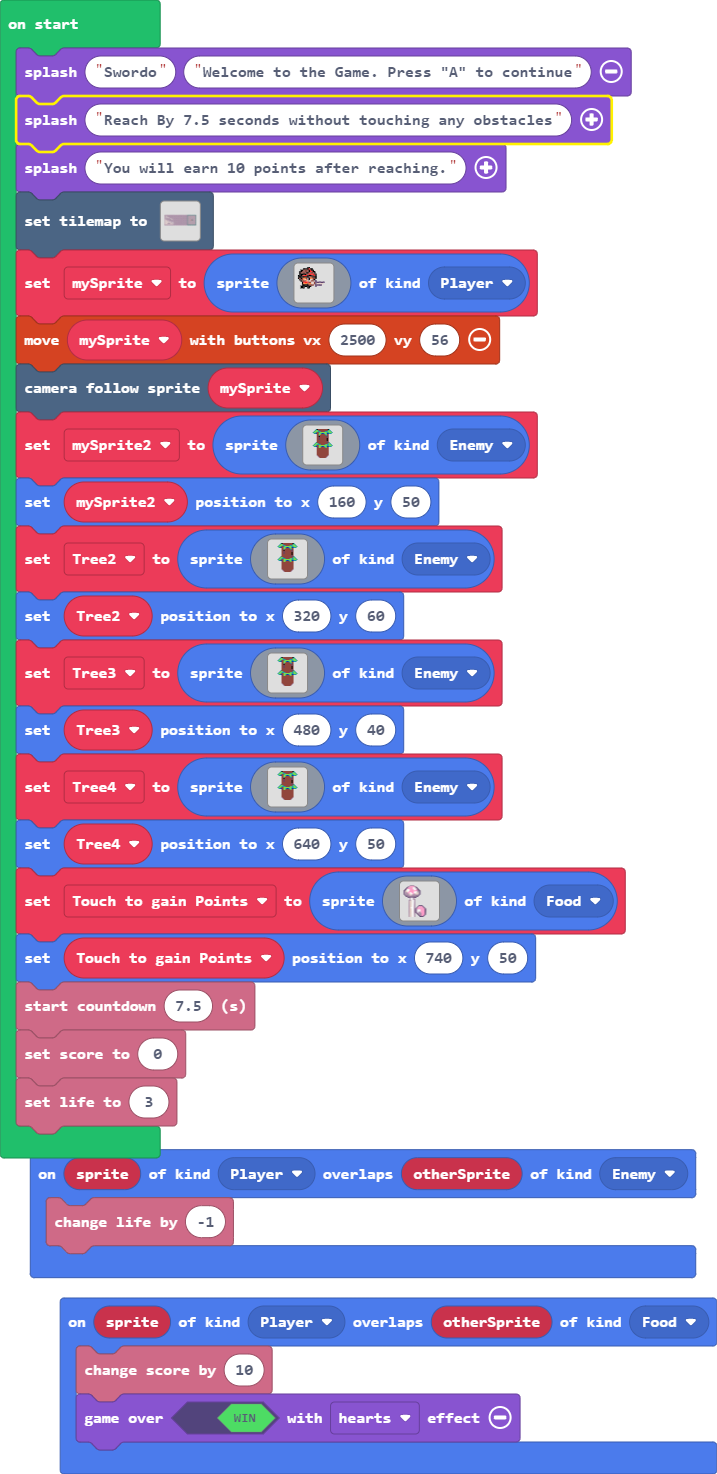
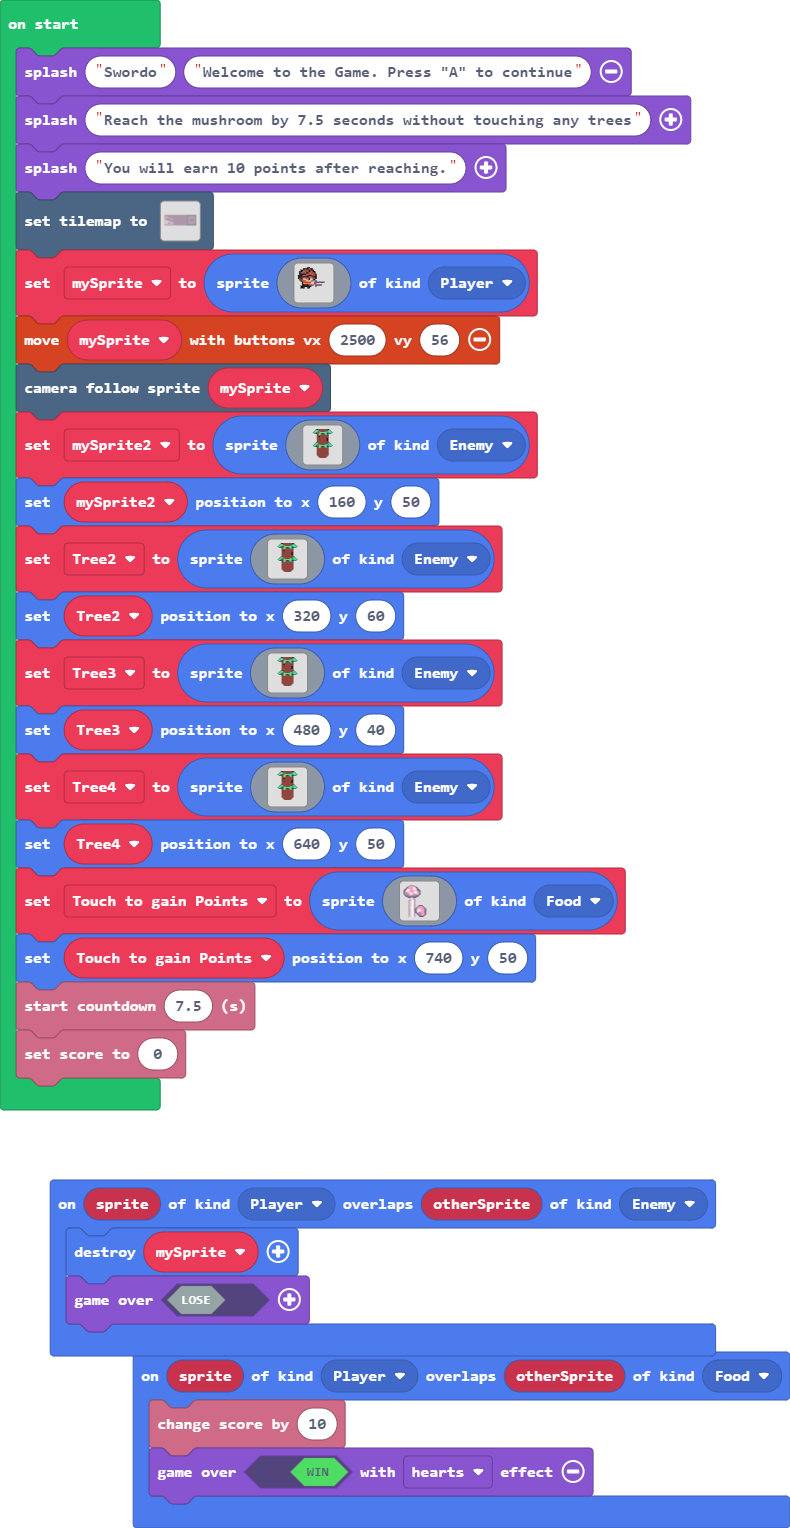
Hello

diff --git a/main.ts b/main.ts
@@ -3,13 +3,15 @@ sprites.onOverlap(SpriteKind.Player, SpriteKind.Food, function (sprite, otherSpr
     game.over(true, effects.hearts)
 })
 sprites.onOverlap(SpriteKind.Player, SpriteKind.Enemy, function (sprite, otherSprite) {
-    info.changeLifeBy(-1)
+    mySprite.destroy()
+    game.over(false)
 })
+let mySprite: Sprite = null
 game.splash("Swordo", "Welcome to the Game. Press \"A\" to continue")
-game.splash("Reach By 7.5 seconds without touching any obstacles")
+game.splash("Reach the mushroom by 7.5 seconds without touching any trees")
 game.splash("You will earn 10 points after reaching.")
 tiles.setTilemap(tilemap`level1`)
-let mySprite = sprites.create(img`
+mySprite = sprites.create(img`
     .......ff...............
     ....ffff2ff.............
     ..ffeeeef2ff............
@@ -212,4 +214,3 @@ let Touch_to_gain_Points = sprites.create(img`
 Touch_to_gain_Points.setPosition(740, 50)
 info.startCountdown(7.5)
 info.setScore(0)
-info.setLife(3)
